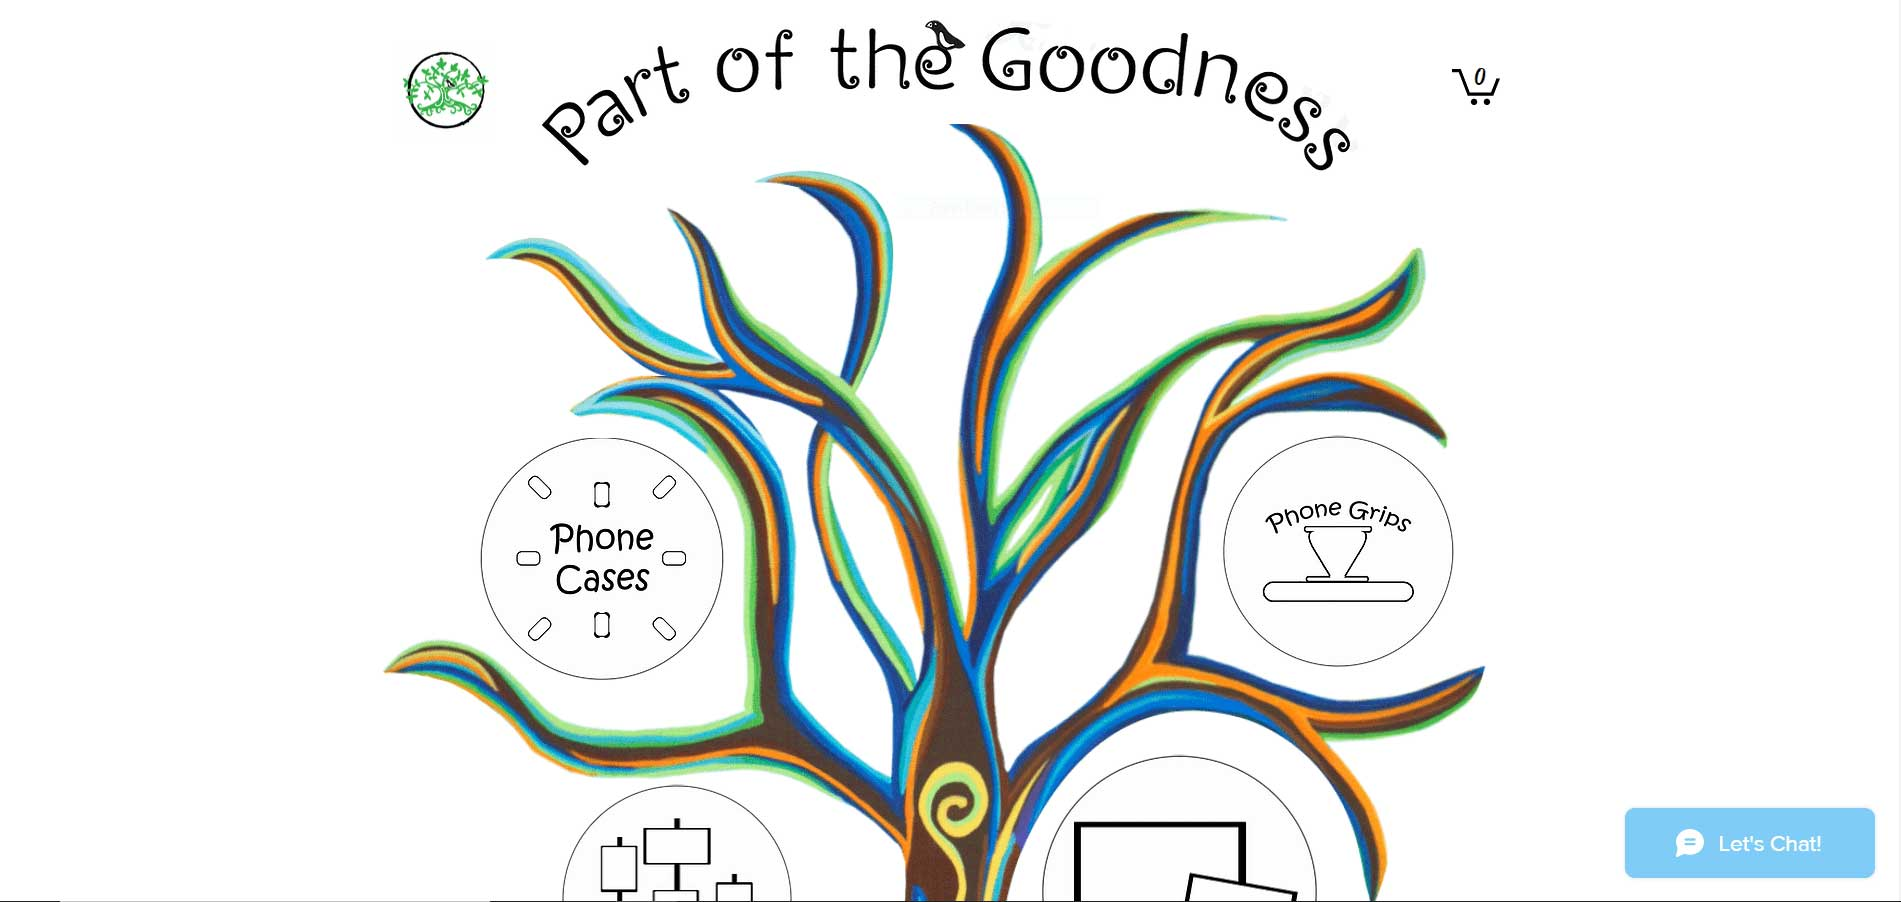
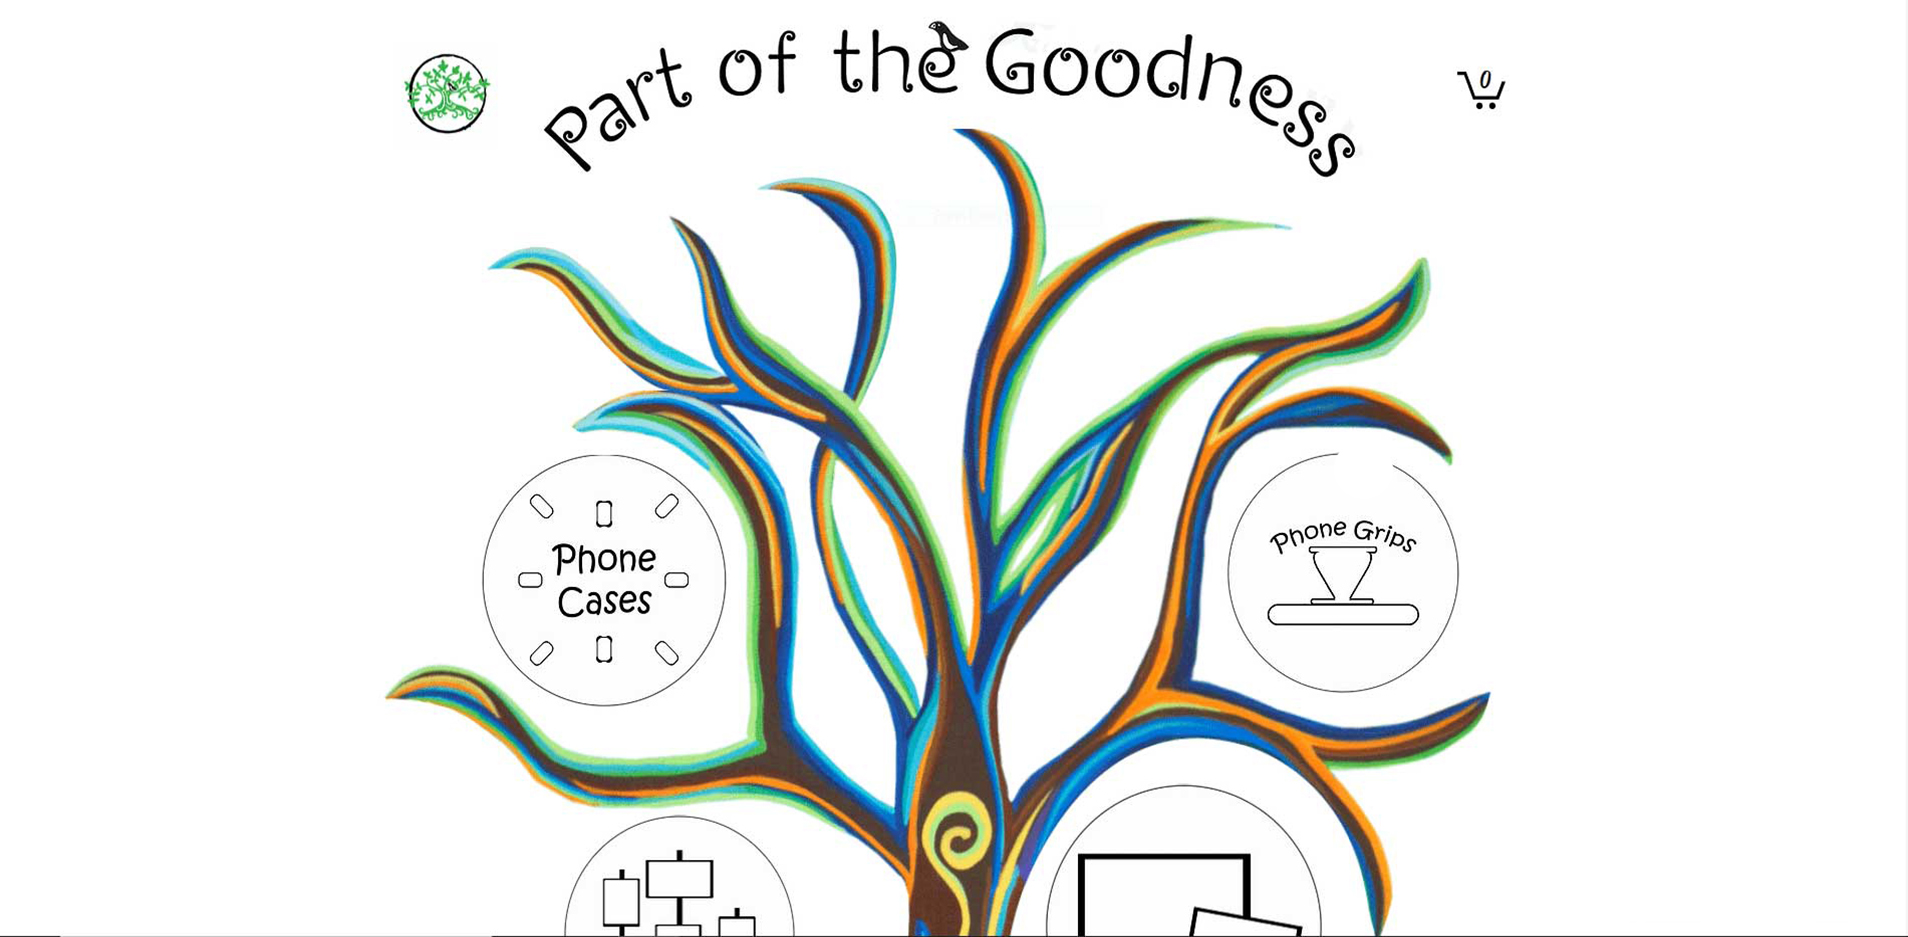
Start of Freelance work section
CSS changes across whole site and some experimenting with different fonts. Start of css for the freelance section which will be changed from the original.

diff --git a/css/index.css b/css/index.css
@@ -112,11 +112,13 @@ Arrow to scroll to first section
 **************************************************************************/
 
 .downArrow{
+
   position: absolute;
-  left: calc(50vw - 3vw);
+  left: calc(50% - 19.5px);
   bottom: 8%;
   z-index: 3;
   animation: bounce 1s ease infinite alternate;
+  width: 50px;
 
 }
 
@@ -140,7 +142,7 @@ Arrow to scroll to first section
 
   }
   to{
-    transform: translateY(5vh);
+    transform: translateY(3vh);
 
   }
 
@@ -159,9 +161,6 @@ section {
   align-items: center;
   min-height: 400px;
   width: 100vw;
-  font-family: freight-neo-pro,sans-serif;
-  font-weight: 500;
-  font-style: normal;
   padding: 4vw 0px 4vw 0px;
   overflow-x: hidden;
 
@@ -173,6 +172,9 @@ section h1{
   color: #d5eaf2;
   text-align: center;
   padding-bottom: 10px;
+  font-family: ff-meta-web-pro, sans-serif;
+  font-weight: 300;
+  font-style: normal;
 
 }
 
@@ -181,6 +183,9 @@ section h2{
   font-size: 1.2rem;
   color: #d5eaf2;
   text-align: center;
+  font-family: ff-meta-web-pro, sans-serif;
+  font-weight: 300;
+  font-style: normal;
 
 }
 
@@ -190,6 +195,9 @@ section p{
   color: #afc2c9;
   text-align: left;
   padding-bottom: 15px;
+  font-family: fira-sans-condensed, sans-serif;
+  font-weight: 300;
+  font-style: normal;
 
 }
 
@@ -198,6 +206,9 @@ section a{
   font-size: 0.8rem;
   color: #afc2c9;
   text-align: center;
+  font-family: fira-sans-condensed, sans-serif;
+  font-weight: 300;
+  font-style: normal;
 
 }
 
@@ -236,11 +247,63 @@ About Me Section
 
 }
 
+/**************************************************************************
+Freelance Work Section
+**************************************************************************/
+
+.freelanceWork{
+
+  padding-top: 10vw;
+  background-color: #023b3e;
+  padding-bottom: calc(10vw + 4vh);
+
+}
+
+.worksContainer{
+
+  display: flex;
+
+}
+
+.workContainer{
+
+  display: flex;
+  align-items: center;
+  flex-direction: column;
+
+}
+
+.workContainer:nth-child(odd){
+
+  padding-right: 5vw;
+
+}
+
+.workContainer img{
+
+  width: 30vw;
+  max-width: 600px;
+  min-width: 250px;
+
+}
+
 @media screen and (max-width: 768px){
 
   .about{
 
     flex-direction: column;
+
+  }
+
+  .worksContainer{
+
+    flex-direction: column;
+
+  }
+
+  .workContainer:nth-child(odd){
+
+    padding-right: 0vw;
 
   }
 

diff --git a/index.php b/index.php
@@ -119,6 +119,8 @@
 
     </div>
 
+    <!-- ABOUT ME SECTION START-->
+
     <section class="about">
 
       <img class="myPicture" src="images/picofme.png">
@@ -136,6 +138,44 @@
       </div>
 
     </section>
+
+    <!-- ABOUT ME SECTION END-->
+
+    <!-- FREELANCE WORK SECTION START -->
+
+    <section class="freelanceWork">
+
+      <h1>Freelance Work</h1>
+
+      <div class="worksContainer">
+
+        <div class="workContainer">
+          <h2>My NC State Retirement</h2>
+          <div class="container">
+            <img src="images/myNCS.jpg">
+            <div class="org">
+              <a href="https://myncsretirement.com/" target="_blank" rel="noopener noreferrer">View Website</a>
+            </div>
+           </div>
+           <p>Tap or Hover for more!</p>
+        </div>
+
+        <div class="workContainer">
+          <h2>Part of the Goodness</h2>
+          <div class="container">
+            <img src="images/partofthegoodness.jpg">
+            <div class="org">
+              <a href="https://partofthegoodness.com/" target="_blank" rel="noopener noreferrer">View Website</a>
+            </div>
+           </div>
+           <p>Tap or Hover for more!</p>
+        </div>
+        
+      </div>
+
+    </section>
+
+    <!-- FREELANCE WORK SECTION END -->
 
     <script type="text/javascript" src="js/mySite.js"></script>
   </body>
